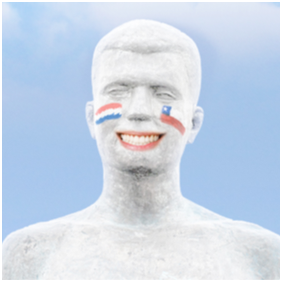
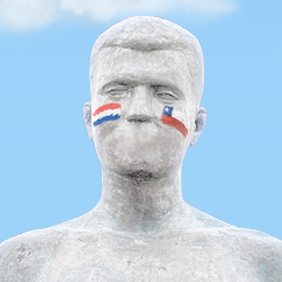
UPDATE: Se agrega nuevo player para vista de grabación (solo desktop)

diff --git a/frontend/app/modules/record/desktop.controller.js b/frontend/app/modules/record/desktop.controller.js
@@ -27,6 +27,7 @@ piluchoApp.controller("recordDektopController", function ($scope, User, $rootSco
 	    	formData.append(fileType + '-blob', blob);
 
 	    	User.saveAudio(formData, function(resp) {
+	    		$scope.backSRC = resp.url;
 	    		$scope.setAudioPlay(resp.url)
 	    		audioSRC = resp.url;
 	    		$scope.onData = true;
@@ -60,30 +61,71 @@ piluchoApp.controller("recordDektopController", function ($scope, User, $rootSco
 		}
 	}
 
-	$scope.setAudioPlay = function(src) {
-		if ($scope.sound) $scope.sound.unload();
+	var dancer = null;
 
-		$scope.sound = new Howl({
-			src: [src],
-			onend: function() {
-				$scope.onPlay = false;
-				$scope.clearPlayer();
-				$scope.$apply();
-			},
-			onload: function() {
-				$scope.$apply();
-			},
-			onplay: function() {
-				$scope.timePlayback = 0;
-				$scope.onPlay = true;
-				$scope.setPlayer();
-				$scope.$apply();
-			}
-		});
+	$scope.setAudioPlay = function(src) {
+		if (deviceDetector.isDesktop()) {
+			dancer = new Dancer();
+			dancer.load({src: src});
+
+			var max = 0;
+			var actualClase = '';
+
+			dancer.after(0.1, function() {
+				var frequency = this.getFrequency( 100 ) * 10000;
+				if (frequency > 0) {
+					$scope.timePlayback = Math.floor(dancer.getTime());
+					$scope.$apply()
+					frequency = Math.round(frequency);
+					if (max < frequency && frequency < 50) max = frequency;
+					var middle = max / 3;
+
+					var clase = '';
+					if (frequency > middle) {
+						clase = 'open';
+					}
+
+					if (actualClase != clase) {
+						$('#record .pilucho-content .boca').removeClass(actualClase).addClass(clase);
+						actualClase = clase;
+					}
+				} else {
+					dancer.pause();
+					$scope.onPlay = false;
+					$scope.$apply();
+					dancer.audioAdapter.context.close();
+				}
+			});
+		} else {
+			if ($scope.sound) $scope.sound.unload();
+
+			$scope.sound = new Howl({
+				src: [src],
+				onend: function() {
+					$scope.onPlay = false;
+					$scope.clearPlayer();
+					$scope.$apply();
+				},
+				onload: function() {
+					$scope.$apply();
+				},
+				onplay: function() {
+					$scope.timePlayback = 0;
+					$scope.onPlay = true;
+					$scope.setPlayer();
+					$scope.$apply();
+				}
+			});
+		}
 	}
 
 	$scope.play = function() {
-		if ($scope.sound) {
+		if (deviceDetector.isDesktop()) {
+			$scope.setAudioPlay($scope.backSRC);
+			$scope.timePlayback = 0;
+			$scope.onPlay = true;
+			dancer.play();
+		} else if ($scope.sound) {
 			$scope.sound.play();
 		}
 	}

diff --git a/frontend/app/modules/galeria/galeria.controller.js b/frontend/app/modules/galeria/galeria.controller.js
@@ -1,4 +1,4 @@
-piluchoApp.controller("galeriaController", function ($scope, $http) {
+piluchoApp.controller("galeriaController", function ($scope, $http, deviceDetector) {
 	$scope.listGallery = [];
 	$scope.showMore = true;
 	$scope.inPlay = false;
@@ -32,38 +32,53 @@ piluchoApp.controller("galeriaController", function ($scope, $http) {
 			$scope.inPlay = true;
 			$($event.currentTarget).addClass('playing');
 
-			var dancer = new Dancer();
-			dancer.load({src: $scope.listGallery[i][j].audio});
+			if (deviceDetector.isDesktop()) {
+				var dancer = new Dancer();
+				dancer.load({src: $scope.listGallery[i][j].audio});
 
-			var max = 0;
-			var actualClase = '';
+				var max = 0;
+				var actualClase = '';
 
-			dancer.after(0.1, function() {
-				var frequency = this.getFrequency( 100 ) * 10000;
-				if (frequency > 0) {
-					frequency = Math.round(frequency);
-					if (max < frequency && frequency < 50) max = frequency;
-					var middle = max / 3;
+				dancer.after(0.1, function() {
+					var frequency = this.getFrequency( 100 ) * 10000;
+					if (frequency > 0) {
+						frequency = Math.round(frequency);
+						if (max < frequency && frequency < 50) max = frequency;
+						var middle = max / 3;
 
-					var clase = '';
-					if (frequency > middle) {
-						clase = 'open';
+						var clase = '';
+						if (frequency > middle) {
+							clase = 'open';
+						}
+
+						if (actualClase != clase) {
+							$($event.currentTarget).parent().children('.boca').removeClass(actualClase).addClass(clase);
+							actualClase = clase;
+						}
+					} else {
+						dancer.pause();
+						$($event.currentTarget).removeClass('playing');
+						$scope.inPlay = false;
+						$scope.$apply();
+						dancer.audioAdapter.context.close();
 					}
+				});
 
-					if (actualClase != clase) {
-						$($event.currentTarget).parent().children('.boca').removeClass(actualClase).addClass(clase);
-						actualClase = clase;
+				dancer.play();
+			} else {
+				var sound = new Howl({
+					src: [$scope.listGallery[i][j].audio],
+					autoplay: true,
+					onend: function() {
+						$($event.currentTarget).removeClass('playing');
+						$scope.inPlay = false;
+						$scope.$apply();
+						sound.unload();
+
 					}
-				} else {
-					dancer.pause();
-					$($event.currentTarget).removeClass('playing');
-					$scope.inPlay = false;
-					$scope.$apply();
-					dancer.audioAdapter.context.close();
-				}
-			});
+				});
 
-			dancer.play();
+			}
 		}
 	}
 });

diff --git a/frontend/css/style.css b/frontend/css/style.css
@@ -388,6 +388,22 @@ body {
             @media screen and (min-width: 580px) {
               #record .wrapper .content .pilucho-wrapper .pilucho-content .movil-text {
                 display: none !important; } }
+          #record .wrapper .content .pilucho-wrapper .pilucho-content .boca {
+            width: 60px;
+            height: 35.604px;
+            background: url(../img/boca.png);
+            background-position: 0 0;
+            background-size: 100% auto;
+            position: absolute;
+            top: 44%;
+            left: 0;
+            right: 0;
+            margin-left: auto;
+            margin-right: auto; }
+            #record .wrapper .content .pilucho-wrapper .pilucho-content .boca.middle {
+              background-position-y: 71.208px; }
+            #record .wrapper .content .pilucho-wrapper .pilucho-content .boca.open {
+              background-position-y: 35.604px; }
       #record .wrapper .content .tiempo, #record .wrapper .content p {
         color: #fff;
         font-size: 12px; }
@@ -606,7 +622,7 @@ body {
           background-position: 0 0;
           background-size: 100% auto;
           position: absolute;
-          top: 46%;
+          top: 51%;
           left: 0;
           right: 0;
           margin-left: auto;

diff --git a/frontend/css/_record.scss b/frontend/css/_record.scss
@@ -128,6 +128,28 @@
 							display: none!important;
 						}
 					}
+
+					.boca {
+						width: 60px;
+						height: 35.604px;
+						background: url(../img/boca.png);
+						background-position: 0 0;
+						background-size: 100% auto;
+						position: absolute;
+						top: 44%;
+						left: 0;
+						right: 0;
+						margin-left: auto;
+						margin-right: auto;
+
+						&.middle {
+							background-position-y: 71.208px;
+						}
+
+						&.open {
+							background-position-y: 35.604px;
+						}
+					}
 				}
 			}
 

diff --git a/frontend/app/modules/record/desktop.template.html b/frontend/app/modules/record/desktop.template.html
@@ -11,6 +11,7 @@
 							<div class="movil-text" ng-show="!onData">
 								Graba tu audio alentando a Chile (15 segundos max.) y participa por increíbles premios.
 							</div>
+							<div class="boca"></div>
 							<img src="img/record/desktop/btn-play.png" ng-show="!onPlay && onData && !onRecord" ng-Click="play()" class="play">
 						</div>
 					</div>

diff --git a/frontend/css/_galeria.scss b/frontend/css/_galeria.scss
@@ -98,7 +98,7 @@
 								background-position: 0 0;
 								background-size: 100% auto;
 								position: absolute;
-								top: 46%;
+								top: 51%;
 								left: 0;
 								right: 0;
 								margin-left: auto;
